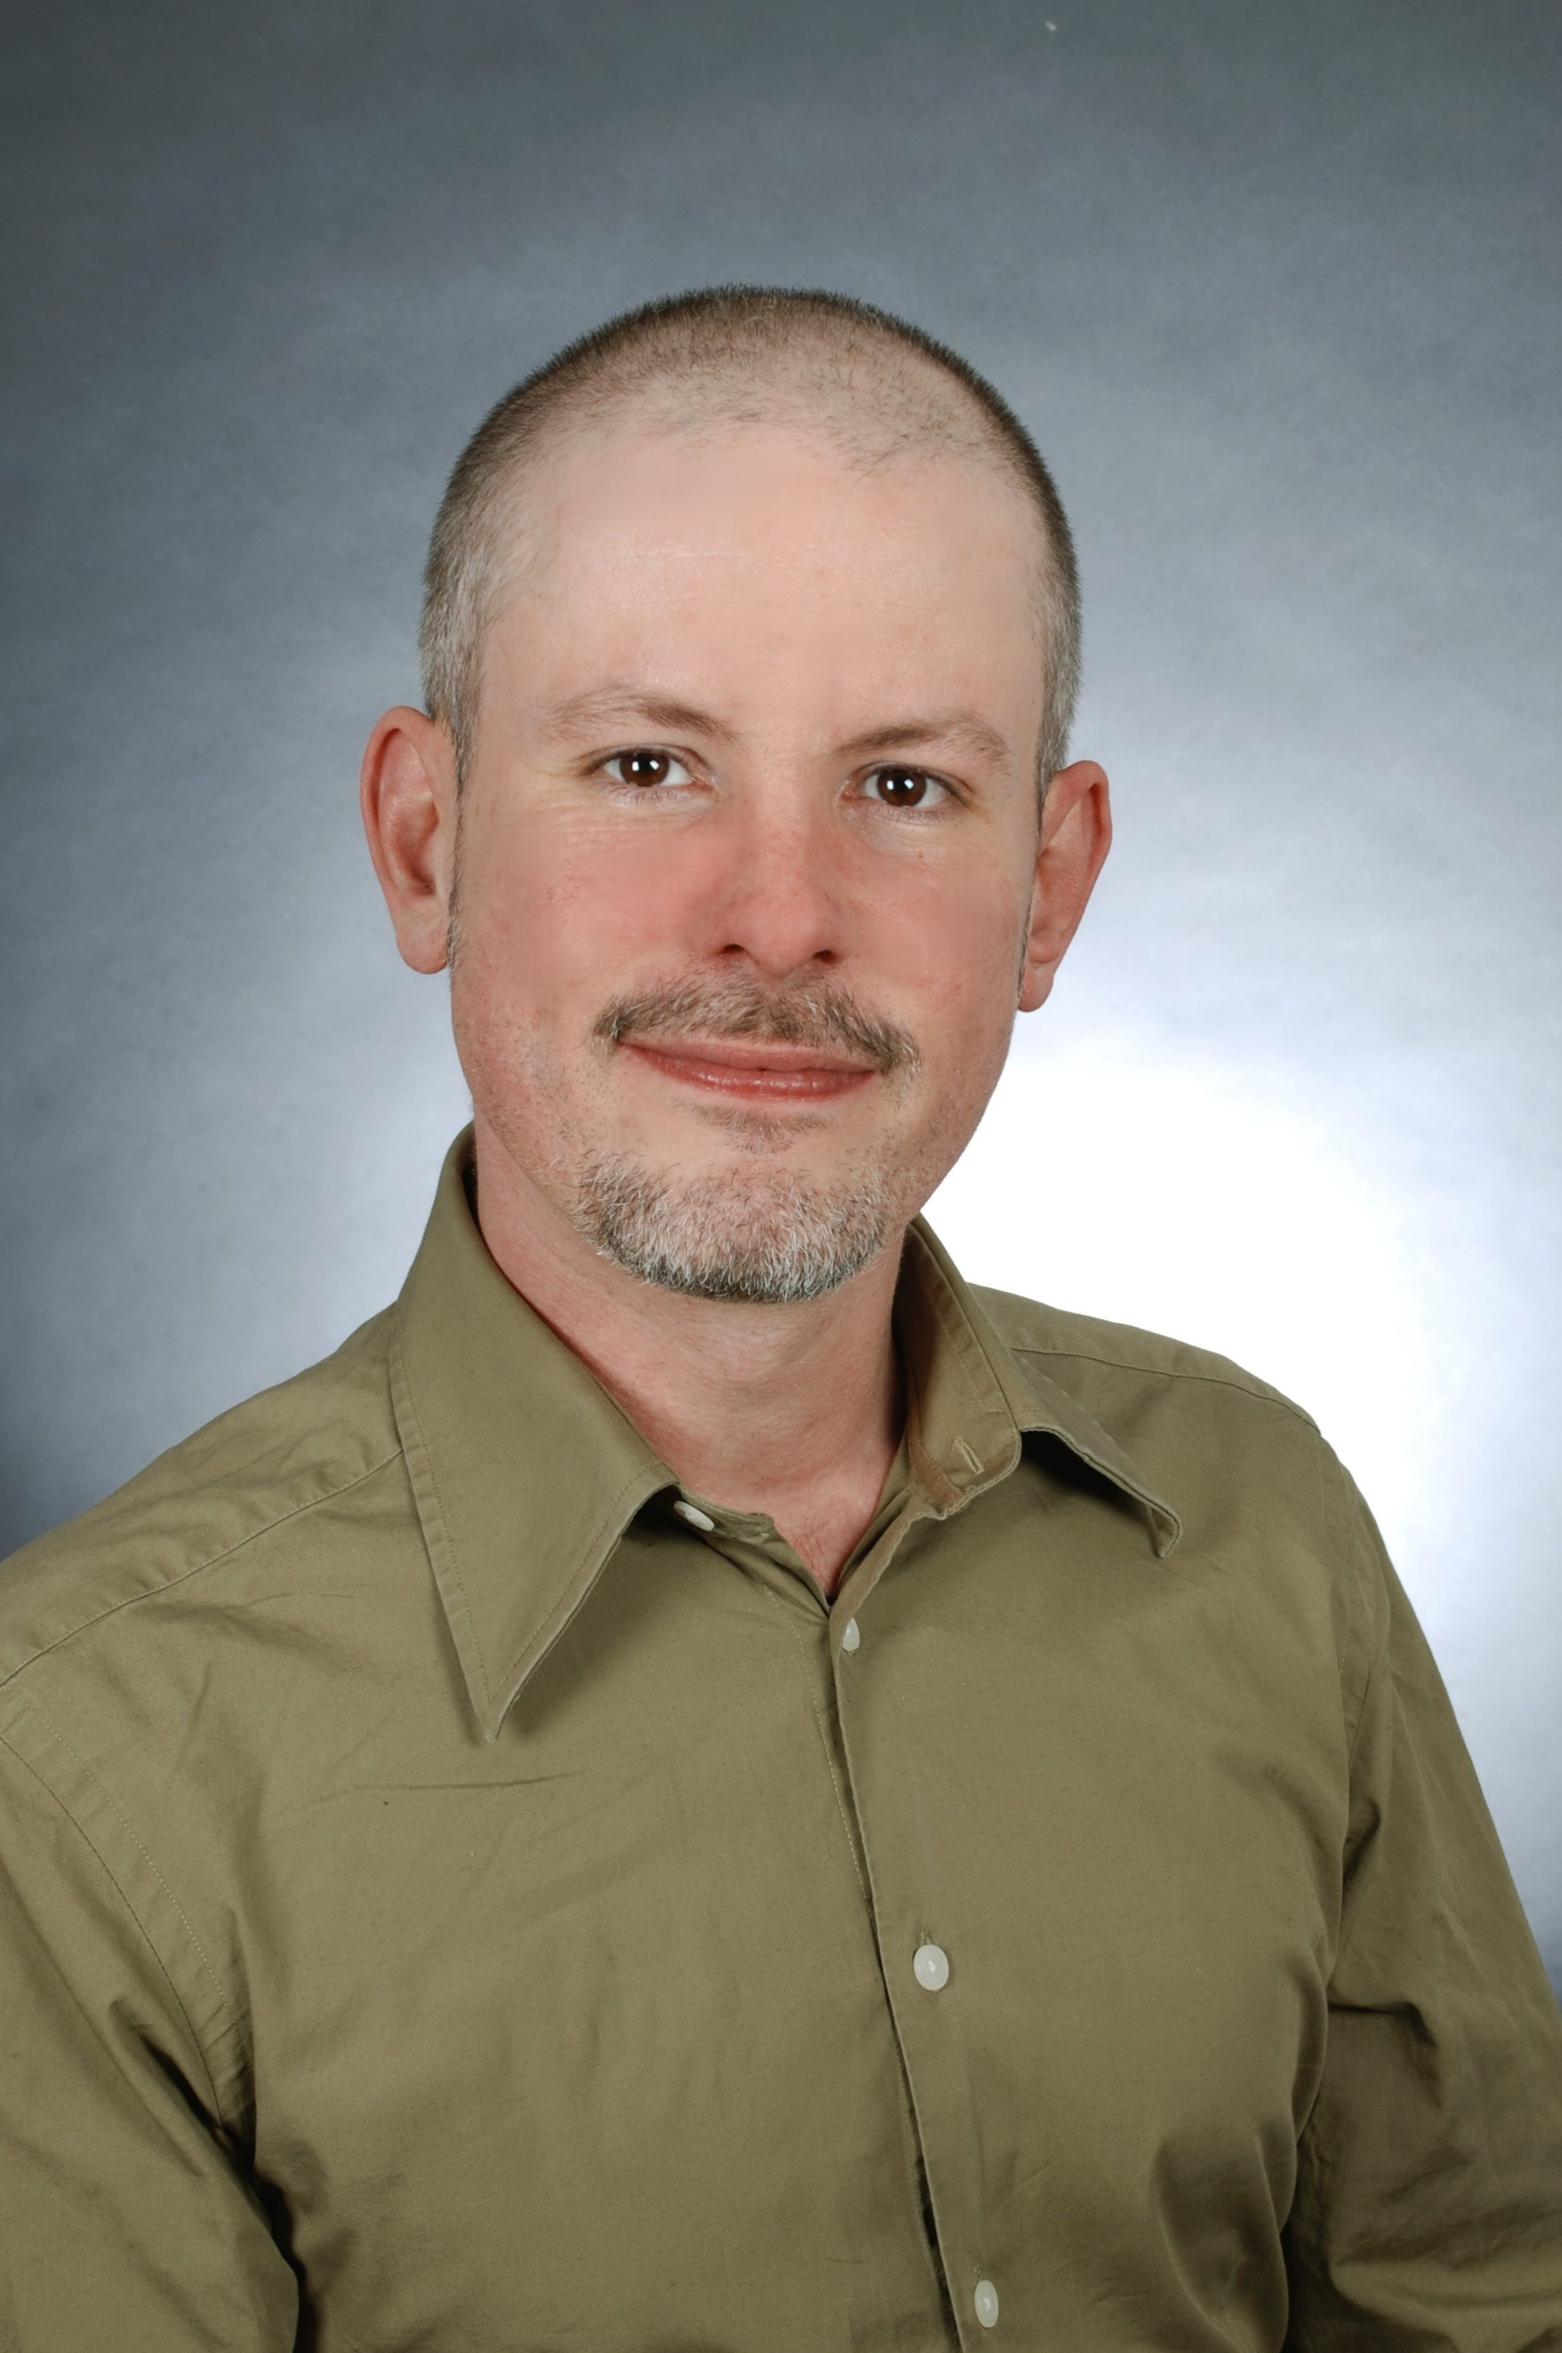
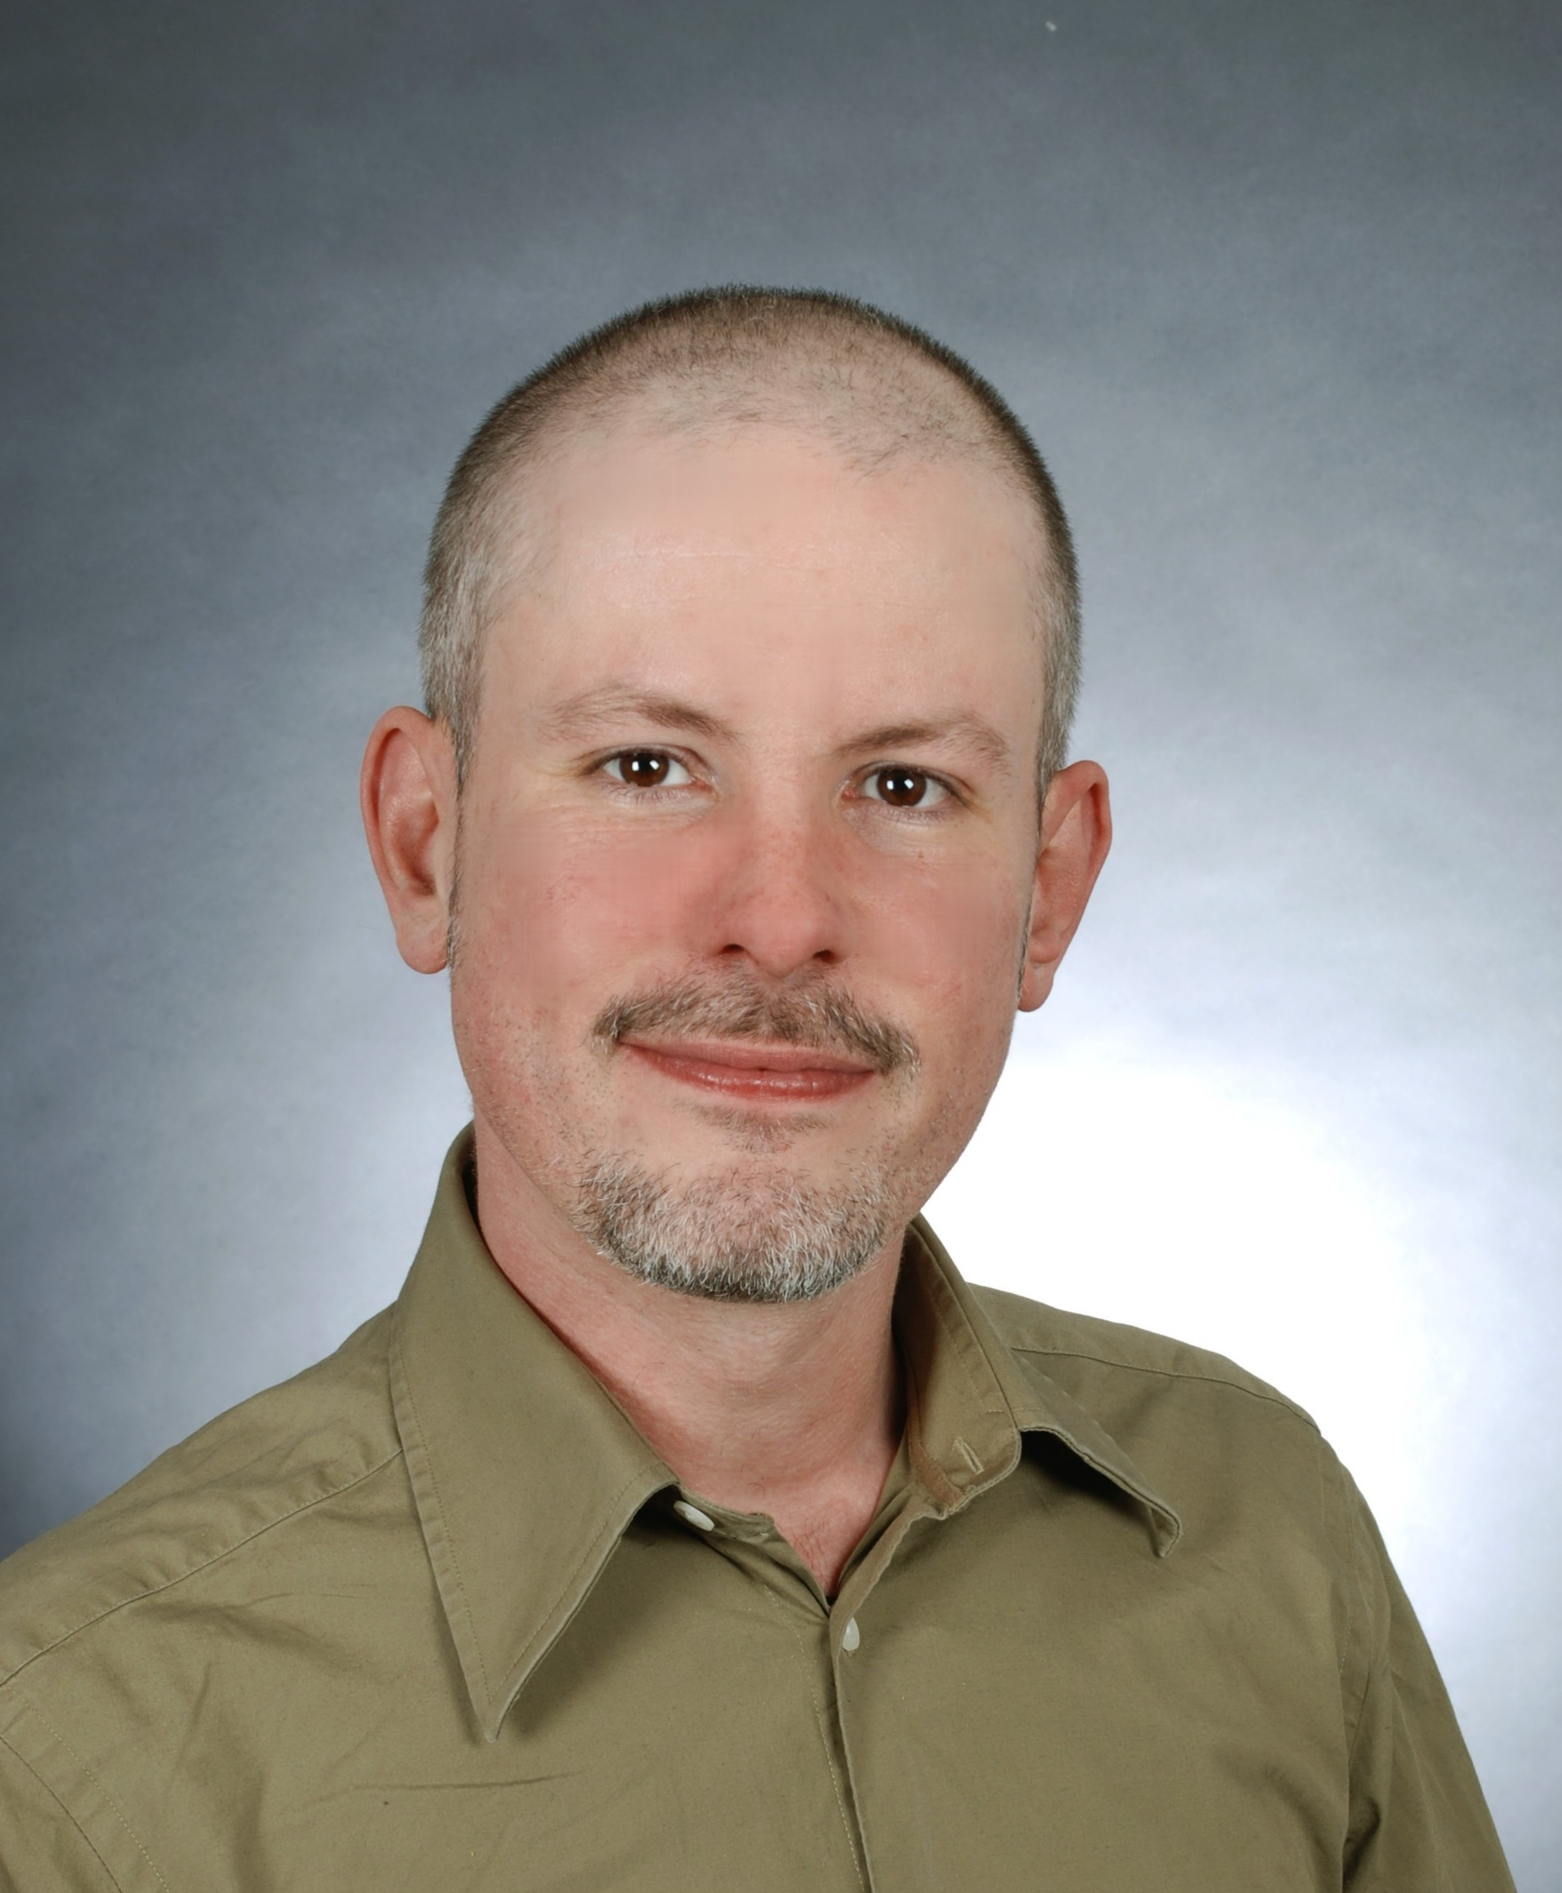
added mobile unstyled button, and a misplaced portrait

diff --git a/client/src/components/csComponents/ListItem.js b/client/src/components/csComponents/ListItem.js
@@ -1,5 +1,6 @@
 import React from "react";
 
+import MobileButton from './MobileButton';
 import posed, { PoseGroup } from 'react-pose';
 
 import cameraIcon from "../../img/camera.svg";
@@ -149,19 +150,10 @@ class ListItem extends React.Component {
 			} else {
 				const content = {};
 
-				console.log(`file being dragged before sending: ${JSON.stringify(this.props.fileBeingDragged)}`)
-
 				//check if multiple files are selected so they are sent as an array to the 'move' function in app.js
 				if (Object.keys(this.props.selectedItems).length === 0) {
-					console.log('trying to move a single file')
 					content.itemToMove = this.props.fileBeingDragged
-					console.log(`set content.itemToMove to ${content.itemToMove}`)
-				} else {
-					console.log('tring to move several files...')
-					content.itemToMove = this.props.selectedItems;
 				}
-
-				console.log(`itemToMove being sent to server: ${JSON.stringify(content)}`)
 
 				content.targetFolder = './external/' + this.props.currentFolder.slice(2) + this.props.item.name;
 
@@ -230,6 +222,7 @@ class ListItem extends React.Component {
 								alt=''
 							/>
 						</td>
+
 						<td
 							onClick={e => {
 								this.props.type === 'file' ?
@@ -241,70 +234,75 @@ class ListItem extends React.Component {
 						>
 							{this.props.item.name}
 						</td>
-						<td className='App-smallSpan' key={'td- ' + i++}>
-							{/* mp4? ad a player icon */}
-							{this.props.fileEnding === 'mp4' ?
+
+						{!this.props.isMobile ?
+							<td className='App-smallSpan' key={'td- ' + i++}>
+								{/* mp4? ad a player icon */}
+								{this.props.fileEnding === 'mp4' ?
+									<img
+										key={'td- ' + i++}
+										src={playIcon}
+										className='App-listIcon'
+										data-item={this.props.item.name}
+										data-type={this.props.type}
+										onClick={() => alert('soon to be streamed')}
+										alt='KILL'
+									/>
+									: null}
+
 								<img
 									key={'td- ' + i++}
-									src={playIcon}
+									src={penIcon}
 									className='App-listIcon'
 									data-item={this.props.item.name}
 									data-type={this.props.type}
-									onClick={() => alert('soon to be streamed')}
+									onClick={() => this.props.renameItem(this.props.item.name)}
 									alt='KILL'
 								/>
-								: null}
 
-							<img
-								key={'td- ' + i++}
-								src={penIcon}
-								className='App-listIcon'
-								data-item={this.props.item.name}
-								data-type={this.props.type}
-								onClick={() => this.props.renameItem(this.props.item.name)}
-								alt='KILL'
-							/>
-
-							<img
-								key={'td- ' + i++}
-								src={downloadIcon}
-								className='App-listIcon'
-								data-item={this.props.item.name}
-								data-type={this.props.type}
-								onClick={
-									this.props.type === "file"
-										? () => {
-											this.props.handleClick(this.props.item.name, './external/' + this.props.currentFolder.slice(2));
-										}
-										: () => {
-											this.props.downloadFolder('./external/' + this.props.currentFolder.slice(2) + this.props.item.name);
-										}
-								}
-								alt='KILL'
-							/>
-
-							<img
-								src={trashcan}
-								className='App-listIcon'
-								onClick={() => {
-									if (Object.keys(this.props.selectedItems).length > 0) {
-										this.props.deleteItem(this.props.selectedItems)
-									} else {
-										let item = {};
-										item.name = './external/' + this.props.currentFolder.slice(2) + this.props.item.name
-										item.type = this.props.type;
-
-										let container = {};
-										container[this.props.item.name] = item;
-
-										console.log(`composed: ${JSON.stringify(this.props.item)}`)
-
-										this.props.deleteItem(container);
+								<img
+									key={'td- ' + i++}
+									src={downloadIcon}
+									className='App-listIcon'
+									data-item={this.props.item.name}
+									data-type={this.props.type}
+									onClick={
+										this.props.type === "file"
+											? () => {
+												this.props.handleClick(this.props.item.name, './external/' + this.props.currentFolder.slice(2));
+											}
+											: () => {
+												this.props.downloadFolder('./external/' + this.props.currentFolder.slice(2) + this.props.item.name);
+											}
 									}
-								}}
-								alt='KILL'
-							/>
-						</td>
+									alt='KILL'
+								/>
+
+								<img
+									src={trashcan}
+									className='App-listIcon'
+									onClick={() => {
+										if (Object.keys(this.props.selectedItems).length > 0) {
+											this.props.deleteItem(this.props.selectedItems)
+										} else {
+											let item = {};
+											item.name = './external/' + this.props.currentFolder.slice(2) + this.props.item.name
+											item.type = this.props.type;
+
+											let container = {};
+											container[this.props.item.name] = item;
+
+											console.log(`composed: ${JSON.stringify(this.props.item)}`)
+
+											this.props.deleteItem(container);
+										}
+									}}
+									alt='KILL'
+								/>
+							</td>
+							: <MobileButton />
+						}
+
 					</tr>
 					{this.props.type === "file" ? (
 						<tr key={"tr-" + this.props.type + "-" + this.props.index}

diff --git a/client/src/components/Main.js b/client/src/components/Main.js
@@ -26,16 +26,24 @@ class Main extends React.Component {
         id='App-mainPage'
         className={classMain}
       >
-        <img id="myself" src={myPic} alt='Where am I?' />
 
         <h1 className={classHead} id='App-mainHeader'>
           Welcome
         </h1>
 
-        <div className='App-mainText'>Hi there,<br></br> my name is Marco Huwig, I'm a middle-aged Web Developer from Saarland, Germany. I've created this page to show
-        you my skills in developing web presences. In this case, I used the probably most popular Javascript-Frontend Library there is now,
-        <em> ReactJS</em>. Additionally, you'll find my Lebenslauf and some of my knowlodge I've gained so far...</div>
-      </div>
+        <div className='App-mainText'>
+          <img src={myPic}
+            id="App-myself"
+            className={this.props.isMobile ? 'App-myMobile' : ''} alt='here'
+          />
+
+          Hi there,<br></br> my name is Marco Huwig, I'm a middle-aged Web Developer from Saarland, Germany. I've created this page to show
+          you my skills in developing web presences. In this case, I used the probably most popular Javascript-Frontend Library there is now,
+          <em> ReactJS</em>. Additionally, you'll find my Lebenslauf and some of my knowlodge I've gained so far...
+
+        </div>
+
+      </ div>
     )
   }
 }

diff --git a/client/src/components/CloudStorage.js b/client/src/components/CloudStorage.js
@@ -551,11 +551,8 @@ class CloudStorage extends React.Component {
             className='App-filePond'
             oninit={() => { console.log('right event triggered, create an overlay TODO') }}
             onaddfile={(e, file) => {
-              console.log('adding metadata ' + './external/' + this.state.currentFolder.slice(2));
-              console.log(Object.keys(file) + `of file: ${file.filename}`)
+              //why does this exist? can't retrieve shit in the backend :(
               file.setMetadata('folder', './external/' + this.state.currentFolder.slice(2));
-              // file.fileMetadataObject = ({ folder: './external/' + this.state.currentFolder.slice(2) })
-              console.log(`file: ${Object.keys(file)}`)
             }}
             onprocessfiles={() => {
               this.setState({ uploadMenuVisible: false });

diff --git a/client/src/components/Main.css b/client/src/components/Main.css
@@ -1,6 +1,6 @@
 #App-mainPage{
   font-size: 16px;
-  transition: 3000ms;
+  transition: 2000ms;
   opacity: 0;
   margin: auto;
 	width: 80%;
@@ -28,15 +28,24 @@
 
 #App-mainHeader{
   font-size: 16px;
-  transition: 3500ms;
+  transition: 2100ms;
 }
 
 #App-mainHeader.App-headMobile{
   font-size: 14px;
 }
 
-#myself{
+#App-myself{
+  object-fit: cover;
+  position: fixed;
+  left: 14px;
   height: 110px;
   width: 110px;
   border-radius: 100%;
+}
+
+#App-myself.App-myMobile{
+  height: 50px;
+  width: 50px;
+  left: 2px;
 }

diff --git a/client/src/components/Navbar.js b/client/src/components/Navbar.js
@@ -14,8 +14,13 @@ class Navbar extends React.Component {
 
   render() {
     let navBarClass = 'App-navBar';
-    this.state.visible ? navBarClass += ' App-navBarVisible' : console.log('');
-    this.props.isMobile ? navBarClass += ' App-navBarMobile' : console.log('');
+    if (this.state.visible) {
+      navBarClass += ' App-navBarVisible';
+    }
+
+    if (this.props.isMobile) {
+      navBarClass += ' App-navBarMobile'
+    }
 
     setTimeout(() => this.setState({ visible: true }));
 

diff --git a/client/src/App.js b/client/src/App.js
@@ -2,7 +2,6 @@ import "react-app-polyfill/ie11";
 import "react-app-polyfill/stable";
 import React, { Component } from "react";
 
-import { BrowserRouter as Router, Route, NavLink } from "react-router-dom";
 import MobileDetect from 'mobile-detect';
 import posed from 'react-pose';
 
@@ -64,7 +63,6 @@ class App extends Component {
 				<Navbar
 					isMobile={md.phone() ? true : false}
 					changeRoute={this.changeRoute}
-					NavLink={NavLink}
 				/>
 
 				{(() => {

diff --git a/client/src/components/csComponents/MobileButton.js b/client/src/components/csComponents/MobileButton.js
@@ -1,0 +1,22 @@
+import * as React from 'react';
+
+class MobileButton extends React.Component {
+  constructor(props) {
+    super(props);
+
+    this.state = {
+      clicked: false //toggles display of control buttons in the list
+    }
+  }
+
+  toggleVisible = () => this.setState({ clicked: !this.state.clicked });
+
+  render() {
+    return (
+      <button onClick={this.toggleVisible}>
+        X
+      </button>);
+  }
+}
+
+export default MobileButton;
